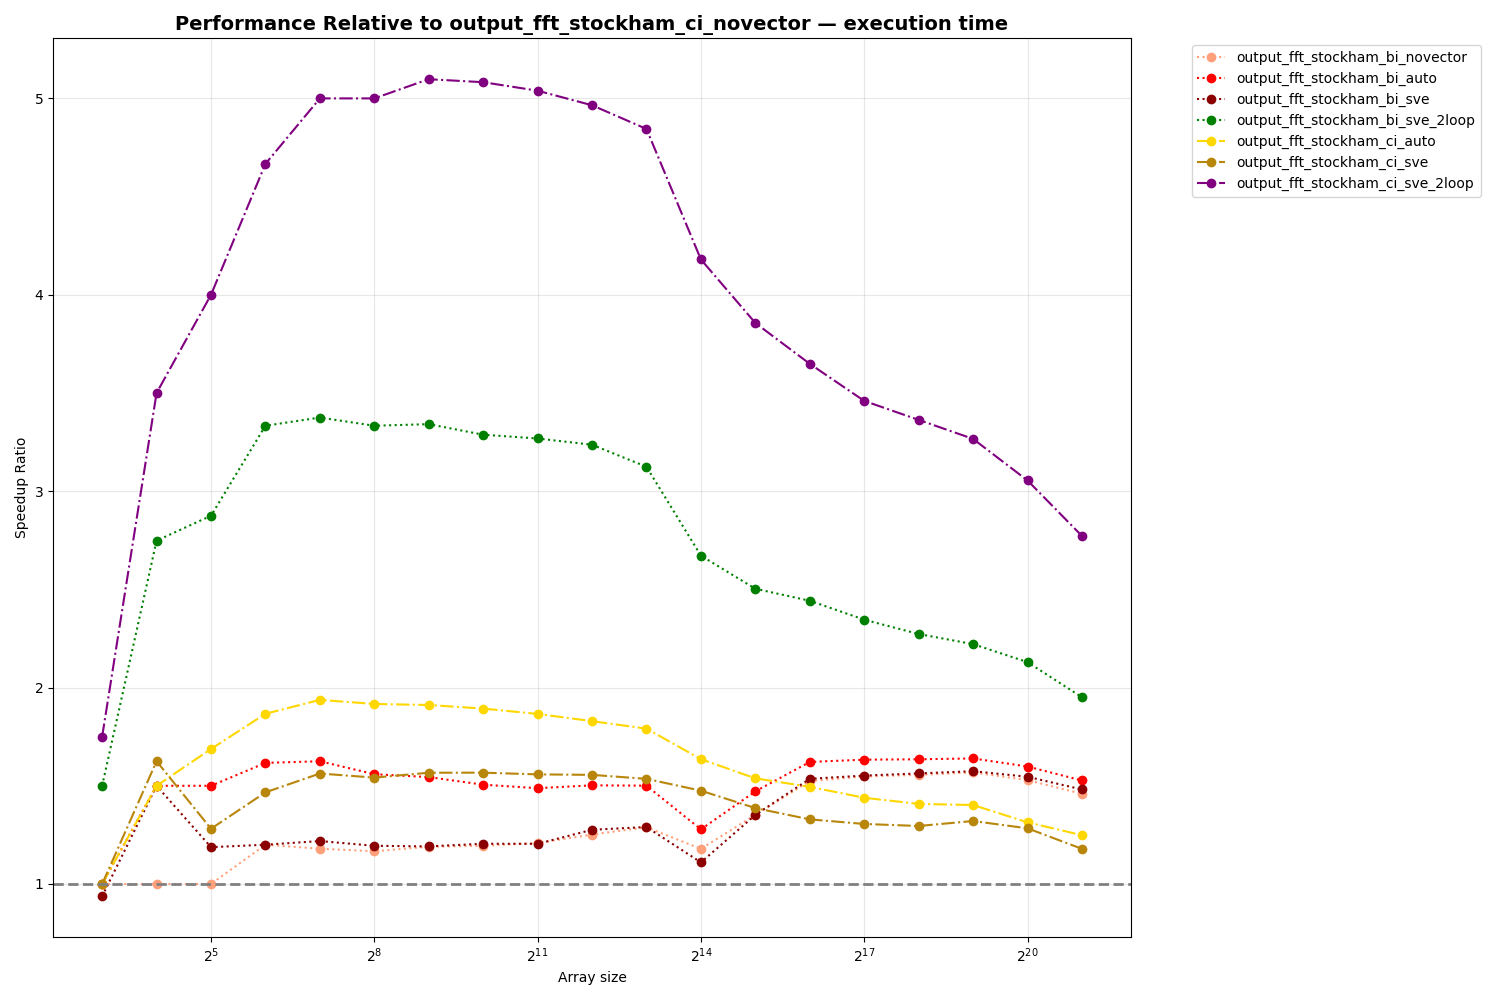
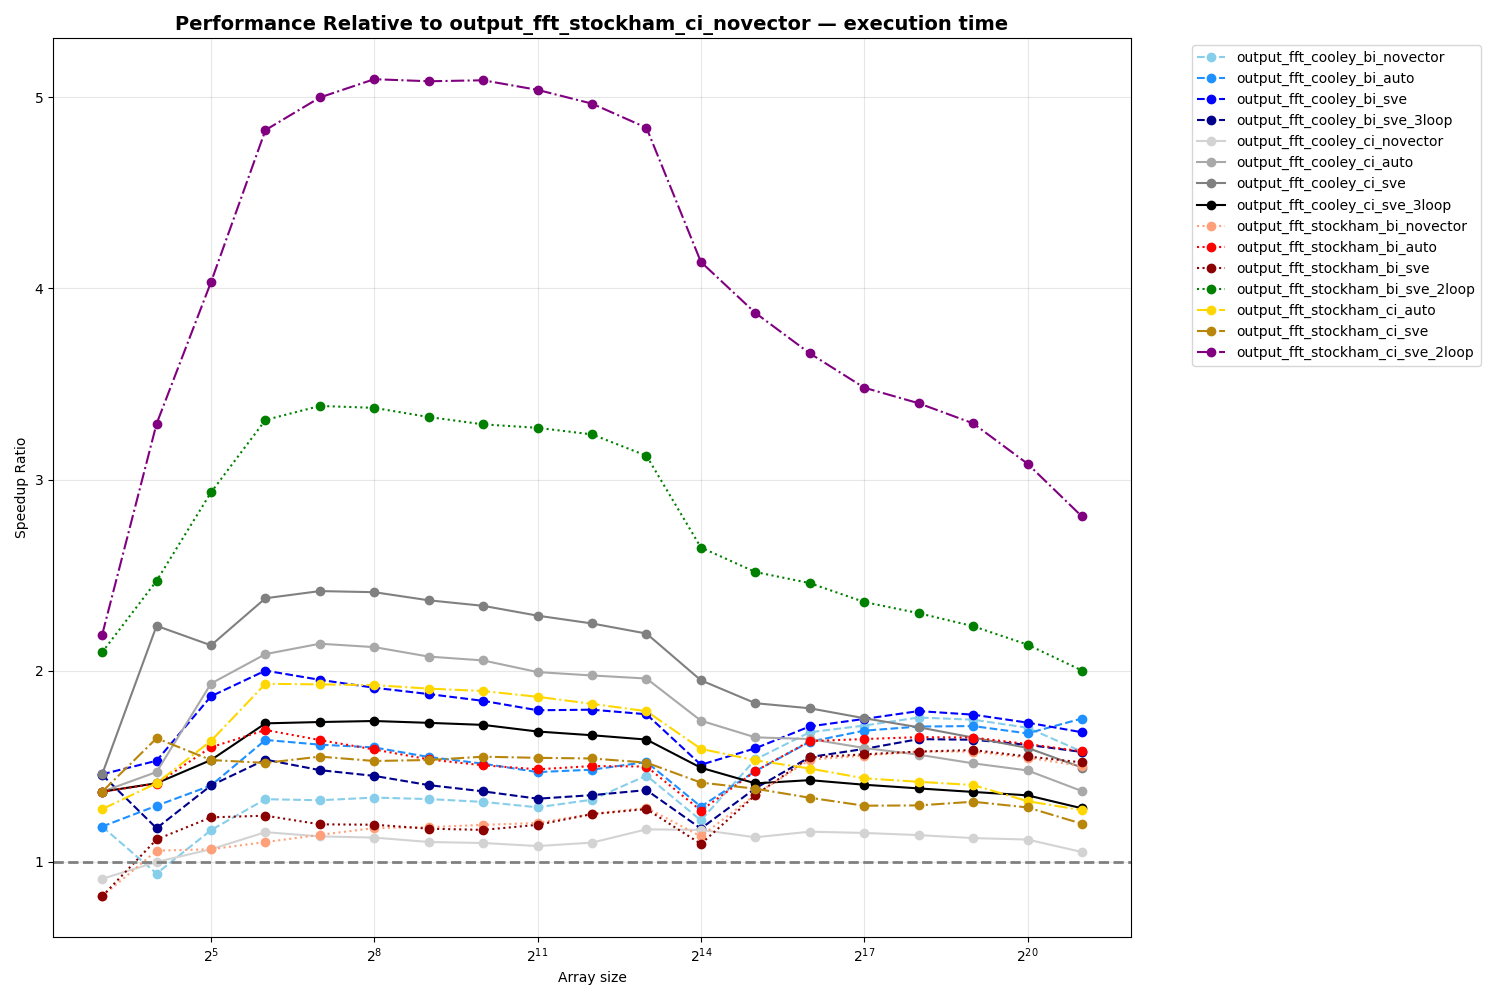
new bench

diff --git a/src/algorithms/cooley-tuckey/fft_cooley_ci_sve.cpp b/src/algorithms/cooley-tuckey/fft_cooley_ci_sve.cpp
@@ -155,7 +155,7 @@ int main(int argc, char const * argv[]){
 		// odd number of elements → middle element
 		median_time = times[size/2];
 	}
-	cout << n << " " << times.at(0) << endl; 
+	cout << n << " " << median_time << endl; 
 
 #ifndef DONTPRINT
 	for(u64 i = 0; i < n; ++i) std::cout << wave[i].re << " " << wave[i].im << "\n";

diff --git a/src/algorithms/cooley-tuckey/fft_cooley_ci_sve_3loop.cpp b/src/algorithms/cooley-tuckey/fft_cooley_ci_sve_3loop.cpp
@@ -146,7 +146,7 @@ int main(int argc, char const * argv[]){
 		// odd number of elements → middle element
 		median_time = times[size/2];
 	}
-	cout << n << " " << times.at(0) << endl; 
+	cout << n << " " << median_time << endl; 
 
 #ifndef DONTPRINT
 	for(u64 i = 0; i < n; ++i) std::cout << wave[i].re << " " << wave[i].im << "\n";

diff --git a/src/algorithms/stockham/fft_stockham_bi_sve_2loop.cpp b/src/algorithms/stockham/fft_stockham_bi_sve_2loop.cpp
@@ -159,7 +159,7 @@ int main(int argc, char const * argv[]){
 		// odd number of elements → middle element
 		median_time = times[size/2];
 	}
-	cout << n << " " << times.at(0) << endl; 
+	cout << n << " " << median_time << endl; 
 
 #ifndef DONTPRINT
 	for(u64 i = 0; i < n; ++i) std::cout << re[i] << " " << im[i] << "\n";

diff --git a/src/algorithms/stockham/fft_stockham_bi.cpp b/src/algorithms/stockham/fft_stockham_bi.cpp
@@ -128,7 +128,7 @@ int main(int argc, char const * argv[]){
 		// odd number of elements → middle element
 		median_time = times[size/2];
 	}
-	cout << n << " " << times.at(0) << endl; 
+	cout << n << " " << median_time << endl; 
 
 
     #ifndef DONTPRINT

diff --git a/src/algorithms/cooley-tuckey/fft_cooley_bi.cpp b/src/algorithms/cooley-tuckey/fft_cooley_bi.cpp
@@ -131,7 +131,7 @@ int main(int argc, char const * argv[]){
 		// odd number of elements → middle element
 		median_time = times[size/2];
 	}
-	cout << n << " " << times.at(0) << endl; 
+	cout << n << " " << median_time << endl; 
 
 	
 #ifndef DONTPRINT

diff --git a/src/algorithms/cooley-tuckey/fft_cooley_bi_sve.cpp b/src/algorithms/cooley-tuckey/fft_cooley_bi_sve.cpp
@@ -146,7 +146,7 @@ int main(int argc, char const * argv[]){
 		// odd number of elements → middle element
 		median_time = times[size/2];
 	}
-	cout << n << " " << times.at(0) << endl; 
+	cout << n << " " << median_time << endl; 
 
 	
 #ifndef DONTPRINT

diff --git a/src/algorithms/cooley-tuckey/fft_cooley_bi_sve_3loop.cpp b/src/algorithms/cooley-tuckey/fft_cooley_bi_sve_3loop.cpp
@@ -134,7 +134,7 @@ int main(int argc, char const * argv[]){
 		// odd number of elements → middle element
 		median_time = times[size/2];
 	}
-	cout << n << " " << times.at(0) << endl; 
+	cout << n << " " << median_time << endl; 
 
 	
 #ifndef DONTPRINT

diff --git a/src/algorithms/stockham/fft_stockham_ci.cpp b/src/algorithms/stockham/fft_stockham_ci.cpp
@@ -125,7 +125,7 @@ int main(int argc, char const * argv[]){
 		// odd number of elements → middle element
 		median_time = times[size/2];
 	}
-	cout << n << " " << times.at(0) << endl; 
+	cout << n << " " << median_time << endl; 
 
 
 #ifndef DONTPRINT

diff --git a/src/algorithms/stockham/fft_stockham_ci_sve.cpp b/src/algorithms/stockham/fft_stockham_ci_sve.cpp
@@ -148,7 +148,7 @@ int main(int argc, char const * argv[]){
 		// odd number of elements → middle element
 		median_time = times[size/2];
 	}
-	cout << n << " " << times.at(0) << endl; 
+	cout << n << " " << median_time << endl; 
 
 
 #ifndef DONTPRINT

diff --git a/src/algorithms/stockham/fft_stockham_ci_sve_2loop.cpp b/src/algorithms/stockham/fft_stockham_ci_sve_2loop.cpp
@@ -172,7 +172,7 @@ int main(int argc, char const * argv[]){
 		// odd number of elements → middle element
 		median_time = times[size/2];
 	}
-	cout << n << " " << times.at(0) << endl; 
+	cout << n << " " << median_time << endl; 
 
 
 #ifndef DONTPRINT

diff --git a/src/algorithms/cooley-tuckey/fft_cooley_ci.cpp b/src/algorithms/cooley-tuckey/fft_cooley_ci.cpp
@@ -128,7 +128,7 @@ int main(int argc, char const * argv[]){
 		// odd number of elements → middle element
 		median_time = times[size/2];
 	}
-	cout << n << " " << times.at(0) << endl; 
+	cout << n << " " << median_time << endl; 
 
 
 	

diff --git a/src/algorithms/stockham/fft_stockham_bi_sve.cpp b/src/algorithms/stockham/fft_stockham_bi_sve.cpp
@@ -136,7 +136,7 @@ int main(int argc, char const * argv[]){
 		// odd number of elements → middle element
 		median_time = times[size/2];
 	}
-	cout << n << " " << times.at(0) << endl; 
+	cout << n << " " << median_time << endl; 
 
 
 	
